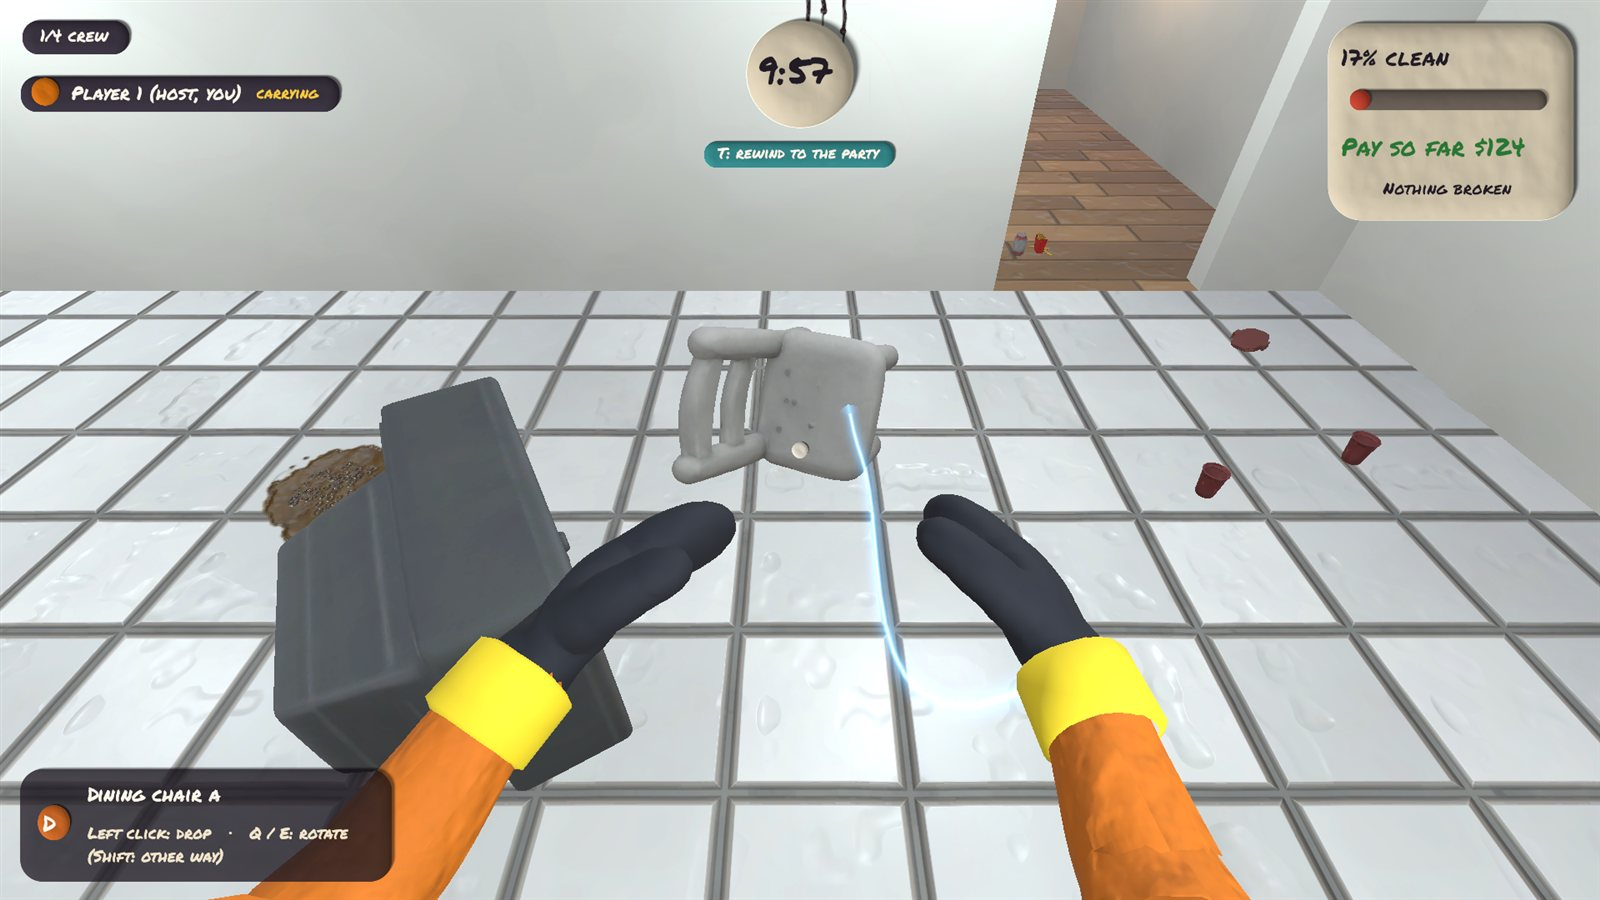
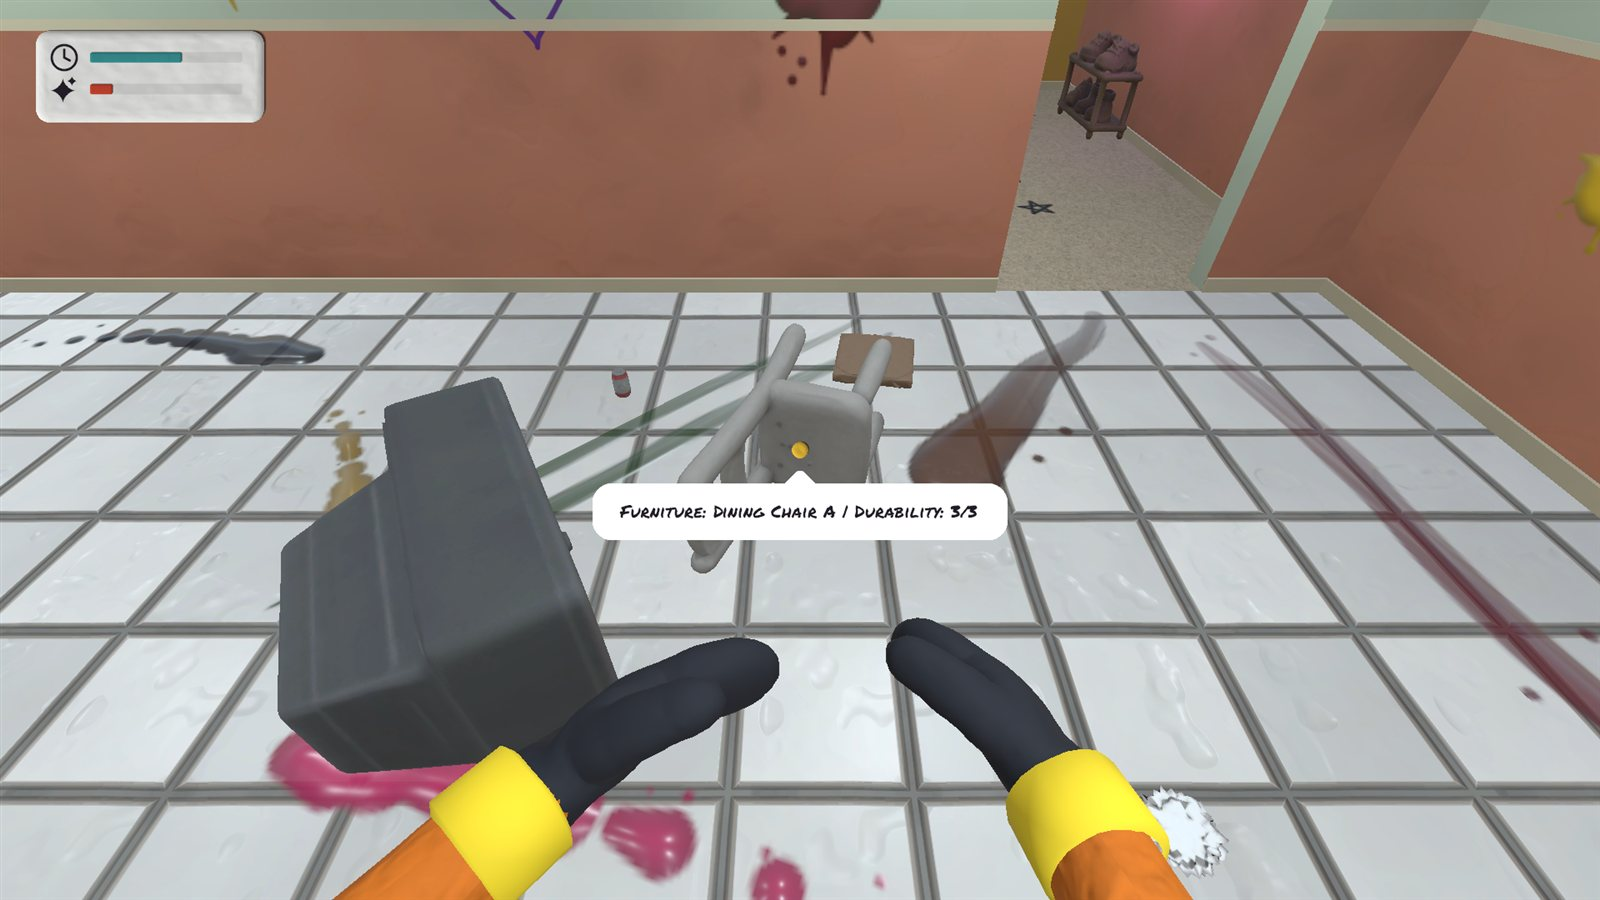
README: new HUD screenshot

diff --git a/README.md b/README.md
@@ -18,8 +18,8 @@ This repository only holds playable builds. Download the latest zip from the [Re
 ![The crew shop](screenshots/04-crew-shop.jpg)
 *The crew shop*
 
-![Grabbing a chair with the clay rope](screenshots/05-grab-and-hud.jpg)
-*Grabbing a chair with the clay rope*
+![The HUD: time and clean bars, and the hint bubble](screenshots/05-grab-and-hud.jpg)
+*The HUD: time and clean bars at the top left, and the hint bubble under the crosshair*
 
 ![The vacuum and the power washer](screenshots/06-vacuum-and-washer.jpg)
 *The vacuum and the power washer*
